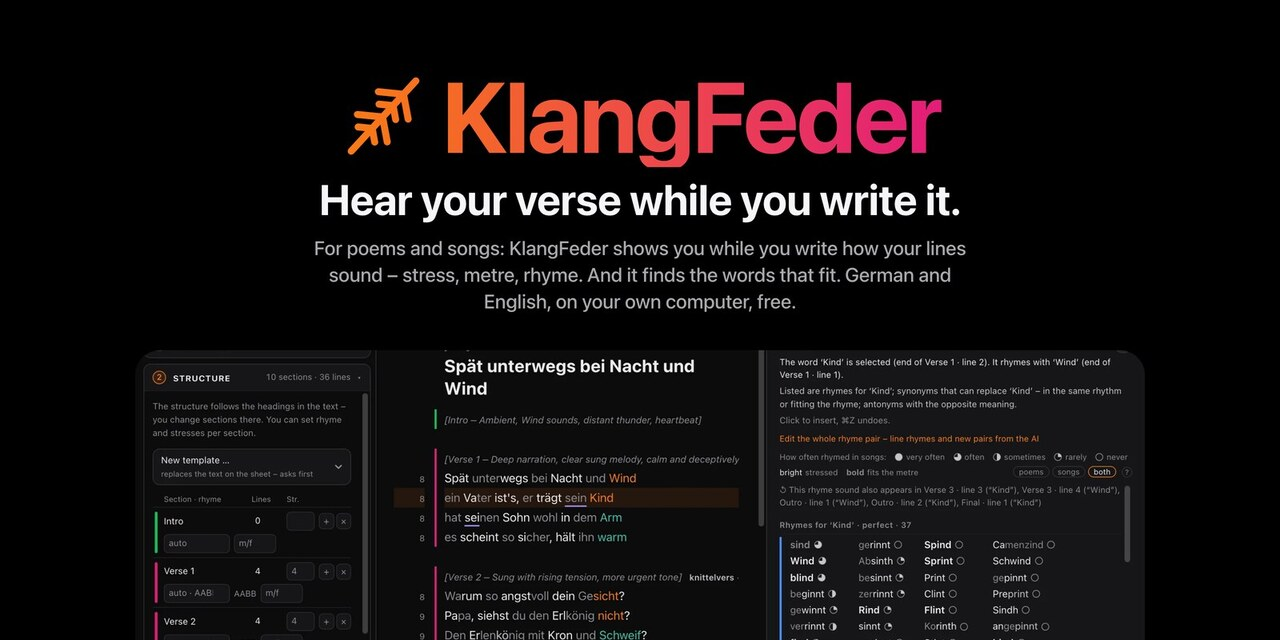
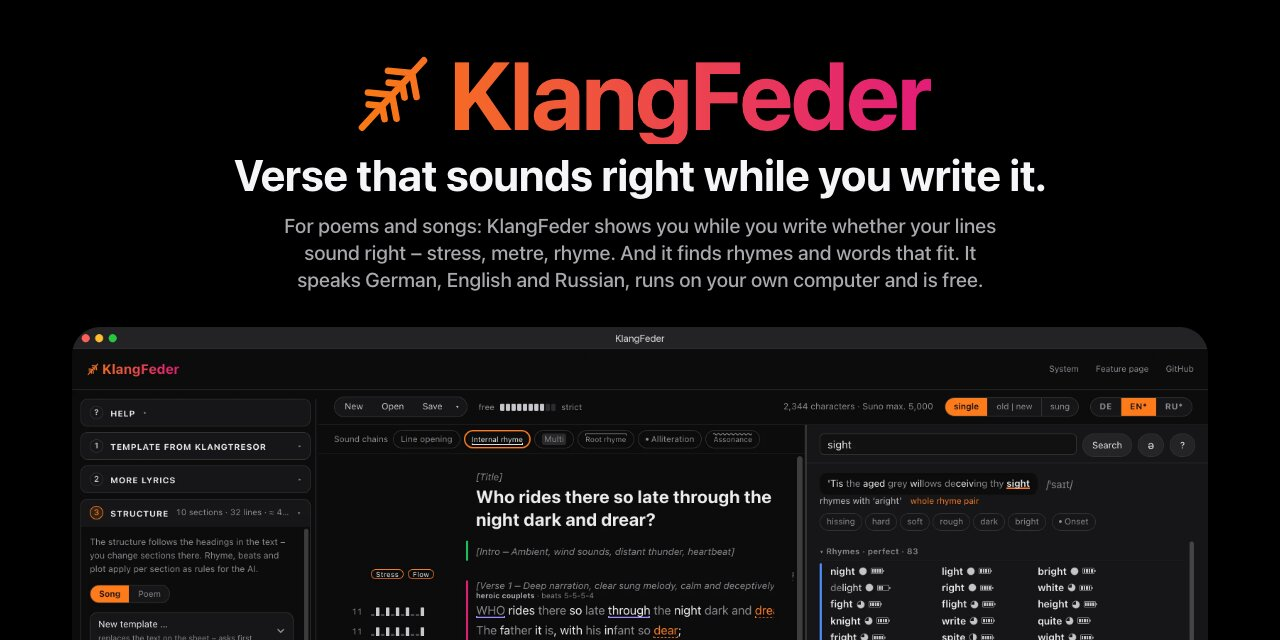
Vorschaubild für Links je Sprache mit neuem Spruch und drei Sprachen (werkzeug/vorschaubild.mjs)

Changed region(s): [[0.0625, 0.0938, 0.9375, 1.0], [0.875, 0.7812, 0.9375, 1.0]]

diff --git a/docs/ru.html b/docs/ru.html
@@ -17,12 +17,12 @@
 <meta property="og:title" content="KlangFeder — Стихи, которые звучат верно уже при письме.">
 <meta property="og:description" content="Бесплатная программа для песен и стихов на русском, немецком и английском: ударения, размер и рифма прямо при письме, подбор рифм и подходящих слов.">
 <meta property="og:url" content="https://caspardavi.github.io/klangfeder/ru.html">
-<meta property="og:image" content="https://caspardavi.github.io/klangfeder/img/og-en.jpg">
+<meta property="og:image" content="https://caspardavi.github.io/klangfeder/img/og-ru.jpg?v=20261119">
 <meta property="og:image:width" content="1280">
 <meta property="og:image:height" content="640">
 <meta property="og:image:alt" content="KlangFeder — Стихи, которые звучат верно уже при письме.">
 <meta name="twitter:card" content="summary_large_image">
-<script type="application/ld+json">{"@context":"https://schema.org","@type":"SoftwareApplication","name":"KlangFeder","url":"https://caspardavi.github.io/klangfeder/ru.html","description":"Бесплатная программа для песен и стихов на русском, немецком и английском: ударения, размер и рифма прямо при письме, подбор рифм и подходящих слов.","inLanguage":"ru","applicationCategory":"MultimediaApplication","operatingSystem":"Windows 10, Windows 11, macOS 11+, Linux","isAccessibleForFree":true,"offers":{"@type":"Offer","price":"0","priceCurrency":"EUR"},"downloadUrl":"https://github.com/CasparDavi/klangfeder/releases/latest","image":"https://caspardavi.github.io/klangfeder/img/og-en.jpg","license":"https://opensource.org/licenses/MIT","author":{"@type":"Person","name":"Caspar_D"}}</script>
+<script type="application/ld+json">{"@context":"https://schema.org","@type":"SoftwareApplication","name":"KlangFeder","url":"https://caspardavi.github.io/klangfeder/ru.html","description":"Бесплатная программа для песен и стихов на русском, немецком и английском: ударения, размер и рифма прямо при письме, подбор рифм и подходящих слов.","inLanguage":"ru","applicationCategory":"MultimediaApplication","operatingSystem":"Windows 10, Windows 11, macOS 11+, Linux","isAccessibleForFree":true,"offers":{"@type":"Offer","price":"0","priceCurrency":"EUR"},"downloadUrl":"https://github.com/CasparDavi/klangfeder/releases/latest","image":"https://caspardavi.github.io/klangfeder/img/og-ru.jpg?v=20261119","license":"https://opensource.org/licenses/MIT","author":{"@type":"Person","name":"Caspar_D"}}</script>
 <!--/kopf-->
 <style>
 /* Anmutung: Apples Feature-Zusammenfassungen nach Keynotes. Schwarzer Grund, große Schlagzeilen,

diff --git a/docs/index.html b/docs/index.html
@@ -17,12 +17,12 @@
 <meta property="og:title" content="KlangFeder – Verse that sounds right while you write it.">
 <meta property="og:description" content="Free songwriting tool for English, German and Russian: see stress, metre and rhyme while you write, find rhymes and words that fit. Runs on your own computer.">
 <meta property="og:url" content="https://caspardavi.github.io/klangfeder/">
-<meta property="og:image" content="https://caspardavi.github.io/klangfeder/img/og-en.jpg">
+<meta property="og:image" content="https://caspardavi.github.io/klangfeder/img/og-en.jpg?v=20261119">
 <meta property="og:image:width" content="1280">
 <meta property="og:image:height" content="640">
 <meta property="og:image:alt" content="KlangFeder – Verse that sounds right while you write it.">
 <meta name="twitter:card" content="summary_large_image">
-<script type="application/ld+json">{"@context":"https://schema.org","@type":"SoftwareApplication","name":"KlangFeder","url":"https://caspardavi.github.io/klangfeder/","description":"Free songwriting tool for English, German and Russian: see stress, metre and rhyme while you write, find rhymes and words that fit. Runs on your own computer.","inLanguage":"en","applicationCategory":"MultimediaApplication","operatingSystem":"Windows 10, Windows 11, macOS 11+, Linux","isAccessibleForFree":true,"offers":{"@type":"Offer","price":"0","priceCurrency":"EUR"},"downloadUrl":"https://github.com/CasparDavi/klangfeder/releases/latest","image":"https://caspardavi.github.io/klangfeder/img/og-en.jpg","license":"https://opensource.org/licenses/MIT","author":{"@type":"Person","name":"Caspar_D"}}</script>
+<script type="application/ld+json">{"@context":"https://schema.org","@type":"SoftwareApplication","name":"KlangFeder","url":"https://caspardavi.github.io/klangfeder/","description":"Free songwriting tool for English, German and Russian: see stress, metre and rhyme while you write, find rhymes and words that fit. Runs on your own computer.","inLanguage":"en","applicationCategory":"MultimediaApplication","operatingSystem":"Windows 10, Windows 11, macOS 11+, Linux","isAccessibleForFree":true,"offers":{"@type":"Offer","price":"0","priceCurrency":"EUR"},"downloadUrl":"https://github.com/CasparDavi/klangfeder/releases/latest","image":"https://caspardavi.github.io/klangfeder/img/og-en.jpg?v=20261119","license":"https://opensource.org/licenses/MIT","author":{"@type":"Person","name":"Caspar_D"}}</script>
 <script>(function(){var l=null;try{l=localStorage.getItem('kf-seite-sprache')}catch(e){}if(!/^(de|en|ru)$/.test(l||''))l=new URLSearchParams(location.search).get('lang');if(!/^(de|en|ru)$/.test(l||'')){l=null;var n=navigator.languages||[navigator.language||'en'];for(var i=0;i<n.length&&!l;i++){var x=(n[i]||'').slice(0,2);if(/^(de|en|ru)$/.test(x))l=x}}var d={de:'de.html',ru:'ru.html'}[l];if(d)location.replace(d+location.hash)})()</script>
 <!--/kopf-->
 <style>

diff --git a/docs/de.html b/docs/de.html
@@ -17,12 +17,12 @@
 <meta property="og:title" content="KlangFeder – Verse, die schon beim Schreiben richtig klingen.">
 <meta property="og:description" content="Kostenloses Werkzeug für Liedtexte und Gedichte auf Deutsch, Englisch und Russisch: Betonung, Versmaß und Reim beim Schreiben sehen, Reime und passende Wörter finden.">
 <meta property="og:url" content="https://caspardavi.github.io/klangfeder/de.html">
-<meta property="og:image" content="https://caspardavi.github.io/klangfeder/img/og-en.jpg">
+<meta property="og:image" content="https://caspardavi.github.io/klangfeder/img/og-de.jpg?v=20261119">
 <meta property="og:image:width" content="1280">
 <meta property="og:image:height" content="640">
 <meta property="og:image:alt" content="KlangFeder – Verse, die schon beim Schreiben richtig klingen.">
 <meta name="twitter:card" content="summary_large_image">
-<script type="application/ld+json">{"@context":"https://schema.org","@type":"SoftwareApplication","name":"KlangFeder","url":"https://caspardavi.github.io/klangfeder/de.html","description":"Kostenloses Werkzeug für Liedtexte und Gedichte auf Deutsch, Englisch und Russisch: Betonung, Versmaß und Reim beim Schreiben sehen, Reime und passende Wörter finden.","inLanguage":"de","applicationCategory":"MultimediaApplication","operatingSystem":"Windows 10, Windows 11, macOS 11+, Linux","isAccessibleForFree":true,"offers":{"@type":"Offer","price":"0","priceCurrency":"EUR"},"downloadUrl":"https://github.com/CasparDavi/klangfeder/releases/latest","image":"https://caspardavi.github.io/klangfeder/img/og-en.jpg","license":"https://opensource.org/licenses/MIT","author":{"@type":"Person","name":"Caspar_D"}}</script>
+<script type="application/ld+json">{"@context":"https://schema.org","@type":"SoftwareApplication","name":"KlangFeder","url":"https://caspardavi.github.io/klangfeder/de.html","description":"Kostenloses Werkzeug für Liedtexte und Gedichte auf Deutsch, Englisch und Russisch: Betonung, Versmaß und Reim beim Schreiben sehen, Reime und passende Wörter finden.","inLanguage":"de","applicationCategory":"MultimediaApplication","operatingSystem":"Windows 10, Windows 11, macOS 11+, Linux","isAccessibleForFree":true,"offers":{"@type":"Offer","price":"0","priceCurrency":"EUR"},"downloadUrl":"https://github.com/CasparDavi/klangfeder/releases/latest","image":"https://caspardavi.github.io/klangfeder/img/og-de.jpg?v=20261119","license":"https://opensource.org/licenses/MIT","author":{"@type":"Person","name":"Caspar_D"}}</script>
 <!--/kopf-->
 <style>
 /* Anmutung: Apples Feature-Zusammenfassungen nach Keynotes. Schwarzer Grund, große Schlagzeilen,

diff --git a/werkzeug/LIESMICH.md b/werkzeug/LIESMICH.md
@@ -47,3 +47,9 @@ Nach jeder Änderung an Text oder Seite:
     node werkzeug/sprachseiten.mjs
 
 Titel und Beschreibung je Sprache stehen oben im Werkzeug (`KOPF`).
+
+## Vorschaubild für Links
+
+`docs/img/og-{en,de,ru}.jpg` (1280 × 640, Discord, Messenger, Suchmaschinen) ist der Kopf der Feature-Seite ohne
+Sprachleiste und Knöpfe. Nach Änderungen an Spruch, Kopftext oder Titelbild: `node werkzeug/vorschaubild.mjs`, dann in
+`werkzeug/sprachseiten.mjs` die Version bei `OG` hochzählen und `node werkzeug/sprachseiten.mjs`.
